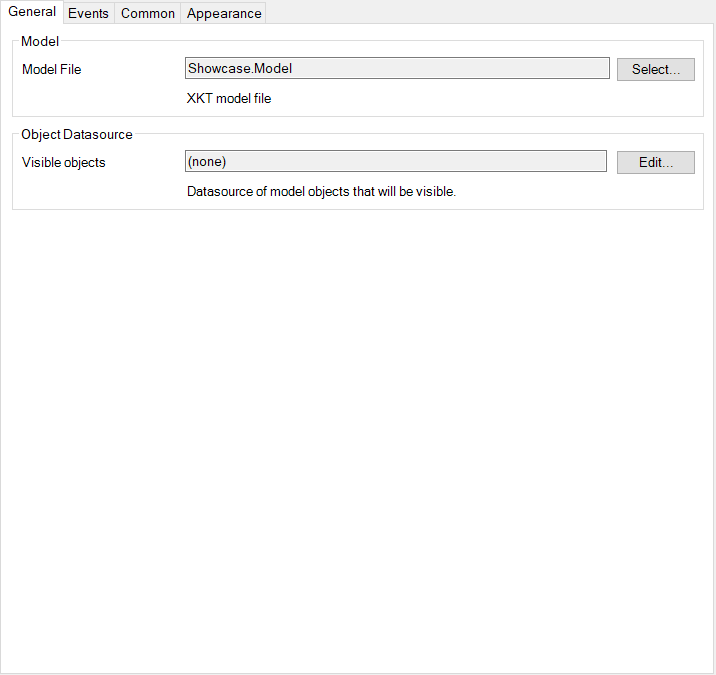
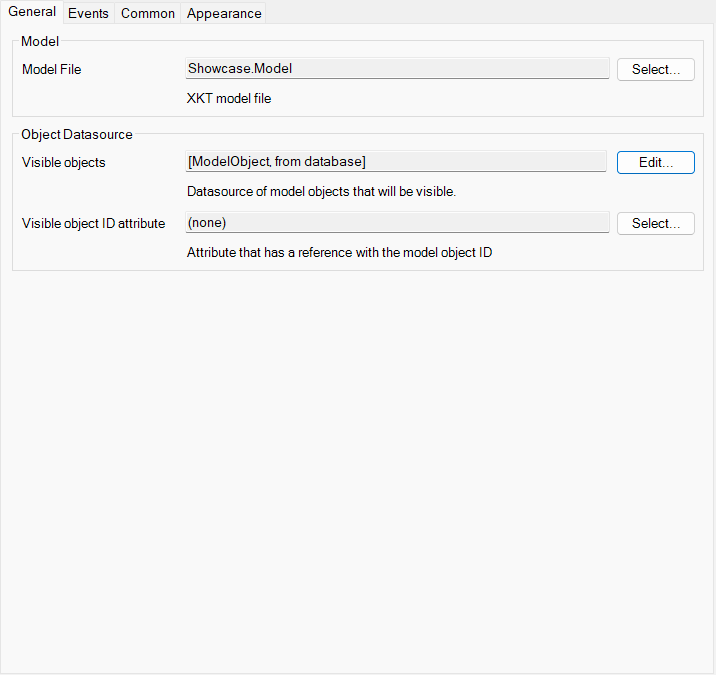
addded import mapping image

diff --git a/README.md b/README.md
@@ -4,7 +4,7 @@ This widget can be used to view 3d models and use these models in your organisat
 
 ## 1. Description
 
-This widget can be used to view 3d models in .xkt-format. This 3d-modeler is a complete Mendix-solution. It comes bundled with optional component widgets which make this widget highly customizable. The widget components allow manipulation of the view such as showing annotations, navigation of the camera, highlighting parts of the 3D-model, measuring parts. To use this widget in a deployed environment you will need to aquire an API-key through ..... or run it locally. The widget can be used to facilitate processes that deal with products and buildings.
+This widget can be used to view 3d models. The widget natively supports ``.xkt`` format. If you wan to view formats such as ``ifc`` you can convert this file with our converter service located at ....... The widget comes bundled with optional component widgets which make this widget highly customizable. The widget components allow manipulation of the view such as showing annotations, navigation of the camera, highlighting parts of the 3D-model, measuring model-objects. To use this widget in a deployed environment you will need to aquire an API-key through ..... or run it locally. The widget can be used to facilitate processes that deal with products and buildings.
 
 ### 1.1 Contents
 <table><tbody><tr><td><b>Widget component</b></td><td>Description</td></tr>
@@ -39,24 +39,26 @@ This widget can be used to view 3d models in .xkt-format. This 3d-modeler is a c
 <img src="https://raw.githubusercontent.com/simplylogicninjas/sl-widgets-3dviewer/main/docs/images/viewer/viewer_modeler_example.png" width="600"/>
 
 * The viewer needs to be nested inside the viewer container.
-* The viewer requires a dataview object from the pagecontext.
+* The viewer requires a dataview object.
 
 
 ### 2.2 Configuration example
 <img src="https://raw.githubusercontent.com/simplylogicninjas/sl-widgets-3dviewer/main/docs/images/viewer-container/viewercontainer_general_tab.png" width="600"/>
 
-* Configure the API-key, if the API-key field is empty the widget will only work locally.
+* Configure the API-key, if you want to test the widget locally provide a any string.
 
 <img src="https://raw.githubusercontent.com/simplylogicninjas/sl-widgets-3dviewer/main/docs/images/viewer/viewer_general_tab.png" width="600"/>
 
 * Select the entity that holds the XKT model file
-* You can optionally specify the visible objects. This can be used if you only want to show a part of a 3D-model.
+* You can optionally specify the visible objects. This can be used if you only want to show a part of a 3D-model. If you use this you will have to specify a reference to an attribute that stores the object model-id.
 
 <img src="https://raw.githubusercontent.com/simplylogicninjas/sl-widgets-3dviewer/main/docs/images/viewer/viewer_event_tab.png" width="600"/>
 
 * You can assign a Mendix-action when a user selects an object inside of the model.
 * You can specify from which string in JSON-format the model objects is constructed from.
-* You can assign a Mendix-action when the page is finished loading the model.
+* You can assign a Mendix-action when model is loaded. Normally this will be a microflow where you import your model objects from the string with for example an import mapping shown below.
+
+<img src="https://raw.githubusercontent.com/simplylogicninjas/sl-widgets-3dviewer/main/docs/images/viewer/import_mapping.png" width="600"/>
 
 ## 3. Use Cases
 
